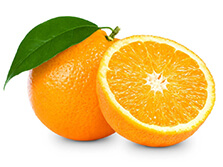
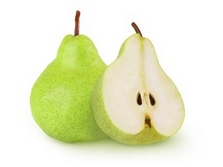
Peaufinage général de Tazza, sauf Fruits tropicaux absents

diff --git a/index.html b/index.html
@@ -180,8 +180,8 @@
                         <h2>Nous fournissons des services depuis 1841 avec fierté.</h2>
                         <div class="about-details">
                             <p class="fw-bold">
-                                <span style="font-weight:bold">* Depuis 1841, chaque saison nous enseigne la patience,
-                                    la lumière, le soin et le respect du vivant.</span>
+                                <span style="font-weight:bold">Depuis 1841, chaque saison nous enseigne la patience,
+                                    la lumière, le soin et le respect du vivant. <span title="Rédigé par Copilote" class="auteur">*</span></span>
                             <p> Notre ferme cultive des fruits et légumes biologiques, en harmonie avec les rythmes
                                 naturels et les gestes ancestraux. Ici, la terre n’est pas exploitée : elle est écoutée.
                                 Chaque récolte est une conversation silencieuse entre le sol, le ciel et les mains qui
@@ -204,7 +204,7 @@
                 <div class="col-12 text-center pb-5">
                     <h2 class="section-title">Nos fruits en vedette</h2>
                     <p class="section-subtitle">
-                        Voici nos quatre fruits emblématiques cultivés <br>avec soin, fraîcheur et respect du vivant.*
+                        Voici nos quatre fruits emblématiques cultivés <br>avec soin, fraîcheur et respect du vivant. <span title="Rédigé par Copilote" class="auteur">*</span>
                     </p>
                 </div>
             </div>
@@ -220,8 +220,7 @@
                             <span $70 KG></span>
                         </div>
                         <div class="vedette-detail">
-                            <a href="product.html" class="btn main-btn">Voir autres fruits</a>
-                            <p>Le melon Cantaloup est célèbre en France</p>
+                            <a href="product.html" class="btn main-btn">Voir détails</a>
                         </div>
                     </div>
                 </div>
@@ -231,7 +230,7 @@
                             <img decoding="async" src="./images/products/product-2.jpg" class="img-fluid" />
                         </div>
                         <div class="d-flex align-items-center justify-content-between">
-                            <h3>Orange</h3>
+                            <h3>Poire</h3>
                             <span $70 KG></span>
                         </div>
                         <div class="vedette-detail">
@@ -259,7 +258,7 @@
                             <img decoding="async" src="./images/products/product-4.jpg" class="img-fluid" />
                         </div>
                         <div class="d-flex align-items-center justify-content-between">
-                            <h3>Pitaya</h3>
+                            <h3>Raisin</h3>
                             <span $70 KG></span>
                         </div>
                         <div class="vedette-detail">
@@ -280,7 +279,7 @@
                 <div class="col-12 text-center">
                     <h2 class="section-title">Nos clients satisfaits</h2>
                     <p class="section-subtitle">Les clients louent la qualité, la fraîcheur, l’accueil humain et
-                        l’engagement éthique qui font vivre cette ferme bio exemplaire. *</p>
+                        l’engagement éthique qui font vivre cette ferme bio exemplaire. <span title="Rédigé par Copilote" class="auteur">*</span></p>
                 </div>
             </div>
             <div class="row justify-content-center">
@@ -325,9 +324,8 @@
                                     </div>
                                     <div class="card col-sm-7">
                                         <div class="desc-box">
-                                            <p class="fst-italic">* Depuis que je m’approvisionne ici, je redécouvre le
-                                                goût vrai des légumes. Fraîcheur, respect, et accueil chaleureux
-                                                garantis.</p>
+                                            <p class="fst-italic">Depuis que je m’approvisionne ici, je redécouvre le goût vrai des légumes. Fraîcheur, respect, et accueil chaleureux
+                                                garantis. <span title="Rédigé par Copilote" class="auteur">*</span></p>
                                             <div class="my-4">
                                                 <h4>Élise Morel</h4>
                                                 <p class="m-0 text-white text-end">Courrier du lecteur</p>
@@ -346,9 +344,7 @@
                                     </div>
                                     <div class="card col-sm-7">
                                         <div class="desc-box">
-                                            <p class="fst-italic">* Une ferme bio exemplaire : produits savoureux,
-                                                démarche éthique, lien humain précieux. Je recommande les paniers
-                                                hebdomadaires sans hésiter.</p>
+                                            <p class="fst-italic">Une ferme bio exemplaire : produits savoureux, démarche éthique, lien humain précieux. Je recommande les paniers hebdomadaires sans hésiter. <span title="Rédigé par Copilote" class="auteur">*</span></p>
                                             <div class="my-4">
                                                 <h4>Théo Lambert</h4>
                                                 <p class="m-0 text-white text-end">Chronique du bien-être</p>
@@ -369,10 +365,9 @@
     <!-- Index.html : légumes section start -->
     <section class="legumes-bio py-5 bg-light text-center">
         <div class="container">
-            <h2 class="mb-4">Légumes biologiques <br>qui varient au fil des saisons *</h2>
+            <h2 class="mb-4">Légumes biologiques <br>qui varient au fil des saisons <span title="Rédigé par Copilote" class="auteur">*</span></h2>
             <p class="text-center mb-5">
-                Nos légumes biologiques offrent diversité, fraîcheur et vitalité. Chaque récolte célèbre <br>la saison,
-                le goût juste et une agriculture attentive aux équilibres naturels.
+                Nos légumes biologiques offrent diversité, fraîcheur et vitalité. Chaque récolte célèbre <br>la saison, le goût juste et une agriculture attentive aux équilibres naturels.
             </p>
             <div class="row text-center">
                 <div class="col-md-3">
@@ -411,7 +406,7 @@
         <div class="container px-5 px-lg-0">
             <div class="row">
                 <div class="col-lg-3 col-sm-6 mb-5 mb-lg-0">
-                    <h5>Ferme des Saisons Vives *</h5>
+                    <h5>Ferme des Saisons Vives <span title="Rédigé par Copilote" class="auteur">*</span></h5>
                     <p class="mb-4 ps-0 company_details">Pour toute graine de curiosité, écrivez-nous, la terre vous
                         répondra avec joie et lumière.</p>
                     <div class="contact-info">

diff --git a/contact.html b/contact.html
@@ -89,26 +89,26 @@
             <div class="row justify-content-center">
                 <div class="col-12 text-center pb-5">
                     <h2 class="section-title">Contactez-nous</h2>
-                    <p class="section-subtitle">Merci de renseigner le formulaire afin de recevoir des informations complémentaires sur notre ferme et ses produits. *</p>
+                    <p class="section-subtitle">Merci de renseigner le formulaire afin de recevoir des informations complémentaires sur notre ferme et ses produits. <span title="Rédigé par Copilote" class="auteur">*</span></p>
                 </div>
                 <div class="col-12 contact-form">
                     <div class="row">
                         <div class="col-lg-7 mb-5">
                             <div class="row g-3">
                                 <div class="col-md-6 mb-4">
-                                    <input type="text" class="form-control" placeholder="Nom *" required>
+                                    <input type="text" class="form-control" placeholder="Nom" required>
                                 </div>
                                 <div class="col-md-6 mb-4">
-                                    <input type="email" class="form-control" placeholder="E-mail *" required>
+                                    <input type="email" class="form-control" placeholder="E-mail" required>
                                 </div>
                                 <div class="col-md-6 mb-4">
-                                    <input type="text" class="form-control" placeholder="Adresse *" required>
+                                    <input type="text" class="form-control" placeholder="Adresse" required>
                                 </div>
                                 <div class="col-md-6 mb-4">
-                                    <input type="number" class="form-control" placeholder="Téléphone *" required>
+                                    <input type="number" class="form-control" placeholder="Téléphone" required>
                                 </div>
                                 <div class="col-12 mb-4">
-                                    <textarea" class="form-control">Message</textarea>
+                                    <textarea rows="6" class="form-control" placeholder="Message" ></textarea>
                                 </div>
                                 <div class="col-12 mb-4">
                                     <button type="submit" class="btn main-btn">Envoyer</button>
@@ -130,7 +130,7 @@
                                         <i class="far fa-envelope-open"></i>
                                         <p>Des questions ? Envoyez-nous un mail :</p>
                                         <div>
-                                            <a href="#">legumesenfete@saisonsvives.org</a>
+                                            <a href="#">legumesenfete <br>@saisonsvives.org</a>
                                         </div>
                                     </li>
                                 </ul>
@@ -151,7 +151,7 @@
         <div class="container px-5 px-lg-0">
             <div class="row">
                 <div class="col-lg-3 col-sm-6 mb-5 mb-lg-0">
-                    <h5>Ferme des Saisons Vives *</h5>
+                    <h5>Ferme des Saisons Vives <span title="Rédigé par Copilote" class="auteur">*</span></h5>
                     <p class="mb-4 ps-0 company_details">Pour toute graine de curiosité, écrivez-nous, la terre vous répondra avec joie et lumière.</p>
                     <div class="contact-info">
                         <ul class="list-unstyled">

diff --git a/product.html b/product.html
@@ -86,14 +86,14 @@
                 <div class="col-12 text-center pb-5">
                     <h2 class="section-title">Les agrumes</h2>
                     <p class="section-subtitle">Les agrumes éveillent les sens : couleur, acidité, vitalité. <br>Chaque
-                        fruit est une promesse de fraîcheur et d’énergie naturelle.&nbsp;*</p>
+                        fruit est une promesse de fraîcheur et d’énergie naturelle.&nbsp;<span title="Rédigé par Copilote" class="auteur">*</span></p>
                 </div>
             </div>
 
 
             <div class="row">
                 <div class="product-content">
-                    <h2>Portraits acidulés *</h2>
+                    <h2>Portraits acidulés <span title="Rédigé par Copilote" class="auteur">*</span></h2>
                     <div class="product-details">
                         <p> Dans ce véritable carnaval botanique, chaque agrume joue son rôle avec panache : le cédrat
                             imposant, le citron caviar mystérieux, le combava tout en relief… On dirait une galerie de
@@ -120,7 +120,7 @@
                 </div>
                 <div class="col-xl-7 col-lg-6 col-12 mb-5">
                     <div class="product-content">
-                        <h2>Jus d'orange pur *</h2>
+                        <h2>Jus d'orange pur <span title="Rédigé par Copilote" class="auteur">*</span></h2>
                         <div class="product-details">
                             <p>Le jus d’orange pur est une source naturelle de vitalité. Pressé à froid, sans sucre
                                 ajouté, il conserve ses arômes et ses nutriments essentiels. Chaque verre évoque le
@@ -171,7 +171,7 @@
         <div class="container px-5 px-lg-0">
             <div class="row">
                 <div class="col-lg-3 col-sm-6 mb-5 mb-lg-0">
-                    <h5>Ferme des Saisons Vives *</h5>
+                    <h5>Ferme des Saisons Vives <span title="Rédigé par Copilote" class="auteur">*</span></h5>
                     <p class="mb-4 ps-0 company_details">Pour toute graine de curiosité, écrivez-nous, la terre vous répondra avec joie et lumière.</p>
                     <div class="contact-info">
                         <ul class="list-unstyled">

diff --git a/css/style.css b/css/style.css
@@ -208,6 +208,10 @@ section {
     min-height: auto;
 }
 
+.auteur{
+    cursor: pointer;
+}
+
 /* ======================================================================== */
 /* Remerciements au concepteur et à Copilote */
 #thank-you-footer {
@@ -219,7 +223,7 @@ section {
     color: #333;
     text-align: center;
     padding: 15px;
-    font-size: 1.6rem;
+    font-size: 2rem;
     opacity: 0;
     transform: translateY(100%);
     transition: opacity 1s ease, transform 1s ease;
@@ -453,7 +457,7 @@ section {
     margin-bottom: 2rem;
 }
 
-/* Index.html - Nos fruits en vedette : melon, orange, pomme, pitaya */
+/* Index.html - Nos fruits en vedette : melon, poire, pomme, raisin */
 /* landing_product_section */
 .landing_product_section .product-card {
     position: relative;
@@ -473,6 +477,7 @@ section {
 
 .landing_product_section .product-card h3 {
     color: var(--primary-text);
+    margin: 0 auto;
 }
 
 .landing_product_section .product-card span {
@@ -520,6 +525,11 @@ section {
 .product_section h2 {
     color: var(--primary-text);
 }
+
+.product_section h4{
+    margin-top: 25px;
+}
+
 
 .product_section .agrumes p{
     text-align: center;
@@ -679,13 +689,13 @@ section {
     outline: none;
     box-shadow: none;
     border-color: var(--secondary-color);
-    border: 2px solid red;
 }
 
 .footer_wrapper .copyright-section {
     background-color: var(--secondary-color);
-    text-align: center;
-    margin: 5rem 0 7.7rem;
+    margin: 5rem 0 8.7rem;
+    display: flex;
+    justify-content: center;
 }
 
 .footer_wrapper .copyright-section p {
@@ -711,7 +721,7 @@ section {
 .distributors .contact-form .form-control:focus {
     outline: none;
     box-shadow: none;
-    border: 2px solid blue;
+    border: 2.5px solid rgb(4, 123, 63);
 
 }
 

diff --git a/gallery.html b/gallery.html
@@ -91,7 +91,7 @@
             <div class="row">
                 <div class="col-12 text-center pb-5">
                     <h2 class="section-title">Notre vitrine</h2>
-                    <p class="section-subtitle">Chaque fruit, chaque légume offre sa couleur, sa texture, ses nutriments essentiels — une palette vivante qui nourrit le corps, l’œil et l’imaginaire. *</p>
+                    <p class="section-subtitle">Chaque fruit, chaque légume offre sa couleur, sa texture, ses nutriments essentiels — une palette vivante qui nourrit le corps, l’œil et l’imaginaire. <span title="Rédigé par Copilote" class="auteur">*</span></p>
                 </div>
                 <div class="col-sm-6 col-lg-4 mb-4">
                     <a href="images/gallery/g-1.jpg" data-lightbox="image" data-title="Agrumes">
@@ -151,7 +151,7 @@
         <div class="container px-5 px-lg-0">
             <div class="row">
                 <div class="col-lg-3 col-sm-6 mb-5 mb-lg-0">
-                    <h5>Ferme des Saisons Vives *</h5>
+                    <h5>Ferme des Saisons Vives <span title="Rédigé par Copilote" class="auteur">*</span></h5>
                     <p class="mb-4 ps-0 company_details">Pour toute graine de curiosité, écrivez-nous, la terre vous répondra avec joie et lumière.</p>
                     <div class="contact-info">
                         <ul class="list-unstyled">

diff --git a/about.html b/about.html
@@ -85,7 +85,7 @@
         <div class="container">
             <div class="row justify-content-center">
                 <div class="col-12 text-center pb-5">
-                    <h2 class="section-title">* Qui sommes-nous ?</h2>
+                    <h2 class="section-title">Qui sommes-nous ? <span title="Rédigé par Copilote" class="auteur">*</span></h2>
                     <p class="section-subtitle">Notre ferme cultive bien plus que des fruits et des légumes : elle fait grandir <br>des valeurs, des liens et des engagements durables.</p>
                 </div>
             </div>
@@ -130,7 +130,7 @@
         <div class="container px-5 px-lg-0">
             <div class="row">
                 <div class="col-lg-3 col-sm-6 mb-5 mb-lg-0">
-                    <h5>Ferme des Saisons Vives *</h5>
+                    <h5>Ferme des Saisons Vives <span title="Rédigé par Copilote" class="auteur">*</span></h5>
                     <p class="mb-4 ps-0 company_details">Pour toute graine de curiosité, écrivez-nous, la terre vous répondra avec joie et lumière.</p>
                     <div class="contact-info">
                         <ul class="list-unstyled">
